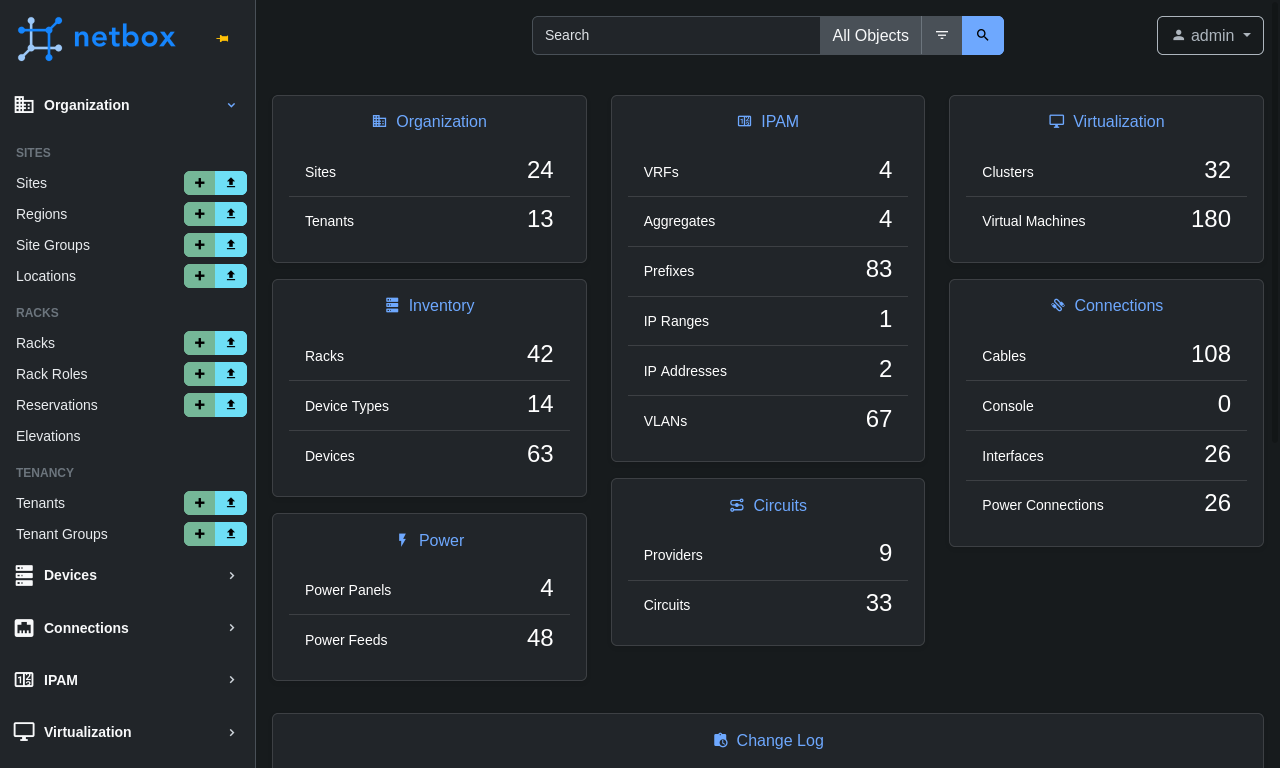
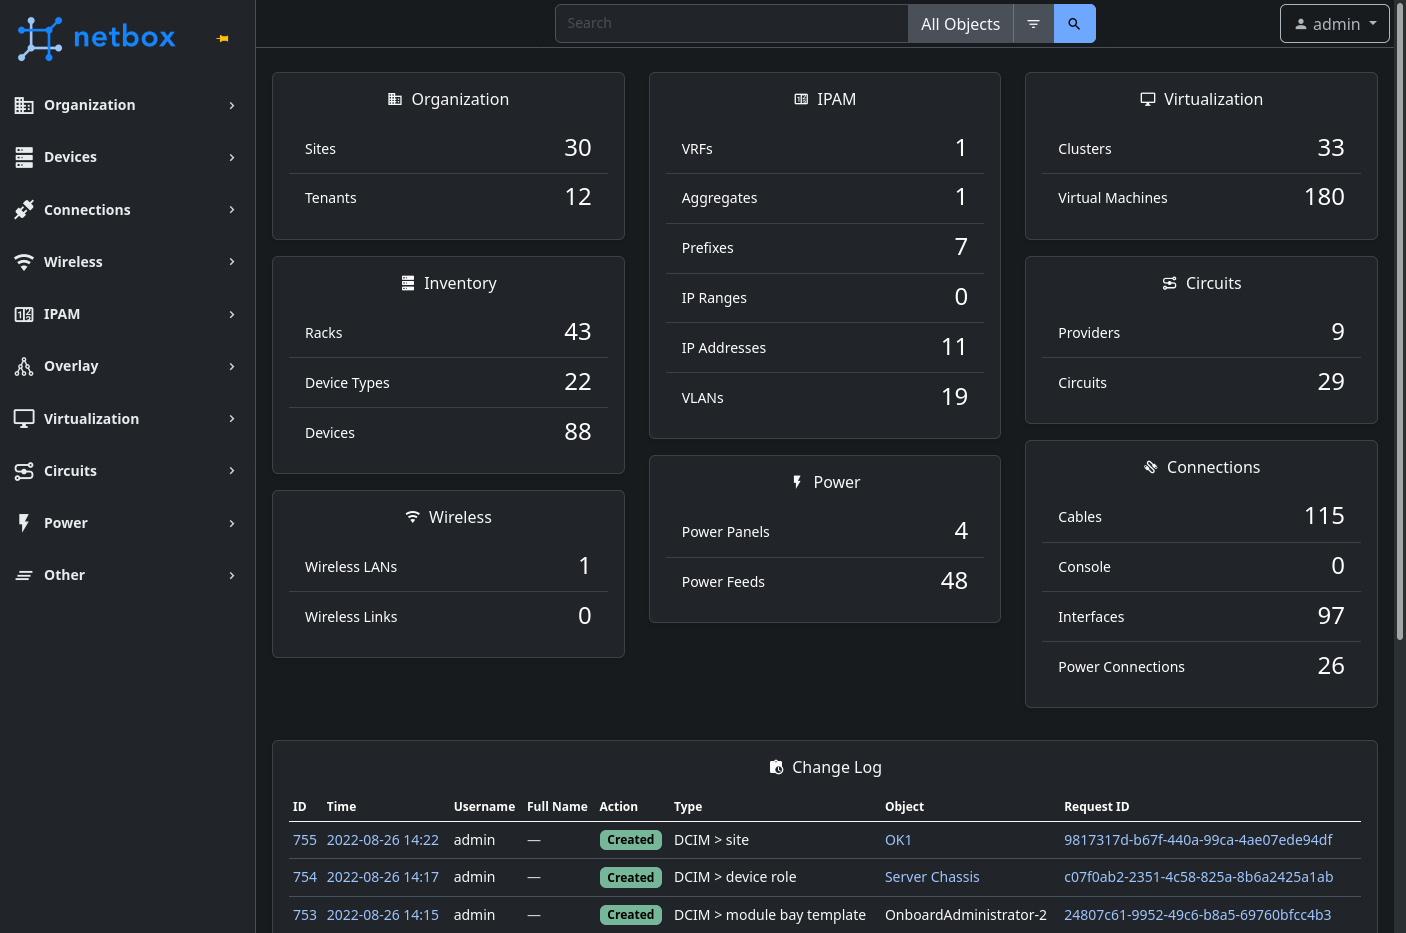
Update README & screenshots

diff --git a/README.md b/README.md
@@ -4,12 +4,14 @@
 
 ![Master branch build status](https://github.com/netbox-community/netbox/workflows/CI/badge.svg?branch=master)
 
-NetBox is an infrastructure resource modeling (IRM) tool designed to empower
-network automation, used by thousands of organizations around the world.
-Initially conceived by the network engineering team at
-[DigitalOcean](https://www.digitalocean.com/), NetBox was developed specifically
-to address the needs of network and infrastructure engineers. It is intended to
-function as a domain-specific source of truth for network operations.
+NetBox is the leading solution for modeling and documenting modern networks. By
+combining the traditional disciplines of IP address management (IPAM) and
+datacenter infrastructure management (DCIM) with powerful APIs and extensions,
+NetBox provides the ideal "source of truth" to power network automation.
+Available as open source software under the Apache 2.0 license, NetBox is
+employed by thousands of organizations around the world.
+
+![Screenshot of Netbox UI](docs/media/screenshots/netbox-ui.png "NetBox UI")
 
 Myriad infrastructure components can be modeled in NetBox, including:
 
@@ -21,6 +23,7 @@ Myriad infrastructure components can be modeled in NetBox, including:
 * Virtual machines and clusters
 * IP prefixes, ranges, and addresses
 * VRFs and route targets
+* L2VPN and overlays
 * FHRP groups (VRRP, HSRP, etc.)
 * AS numbers
 * VLANs and scoped VLAN groups
@@ -45,11 +48,13 @@ customized and extended through the use of:
 NetBox also features a complete REST API as well as a GraphQL API for easily
 integrating with other tools and systems.
 
+The complete documentation for NetBox can be found at [docs.netbox.dev](https://docs.netbox.dev/).
+A public demo instance is available at [demo.netbox.dev](https://demo.netbox.dev).
+
 NetBox runs as a web application atop the [Django](https://www.djangoproject.com/)
 Python framework with a [PostgreSQL](https://www.postgresql.org/) database. For a
-complete list of requirements, see `requirements.txt`. The code is available [on GitHub](https://github.com/netbox-community/netbox).
-
-The complete documentation for NetBox can be found at [docs.netbox.dev](https://docs.netbox.dev/). A public demo instance is available at https://demo.netbox.dev.
+complete list of requirements, see `requirements.txt`. The code is available
+[on GitHub](https://github.com/netbox-community/netbox).
 
 <div align="center">
   <h4>Thank you to our sponsors!</h4>
@@ -89,8 +94,6 @@ If you are interested in contributing to the development of NetBox, please read
 our [contributing guide](CONTRIBUTING.md) prior to beginning any work.
 
 ### Screenshots
-
-![Screenshot of main page (light mode)](docs/media/screenshots/home-light.png "Main page (light mode)")
 
 ![Screenshot of main page (dark mode)](docs/media/screenshots/home-dark.png "Main page (dark mode)")
 

diff --git a/docs/index.md b/docs/index.md
@@ -4,6 +4,8 @@
 
 NetBox is the leading solution for modeling and documenting modern networks. By combining the traditional disciplines of IP address management (IPAM) and datacenter infrastructure management (DCIM) with powerful APIs and extensions, NetBox provides the ideal "source of truth" to power network automation. Read on to discover why thousands of organizations worldwide put NetBox at the heart of their infrastructure.
 
+[![NetBox UI](./media/screenshots/netbox-ui.png)](./media/screenshots/netbox-ui.png)
+
 ## :material-server-network: Built for Networks
 
 Unlike general-purpose CMDBs, NetBox has curated a data model which caters specifically to the needs of network engineers and operators. It delivers a wide assortment of object types carefully crafted to best serve the needs of infrastructure design and documentation. These cover all facets of network technology, from IP address managements to cabling to overlays and more:
